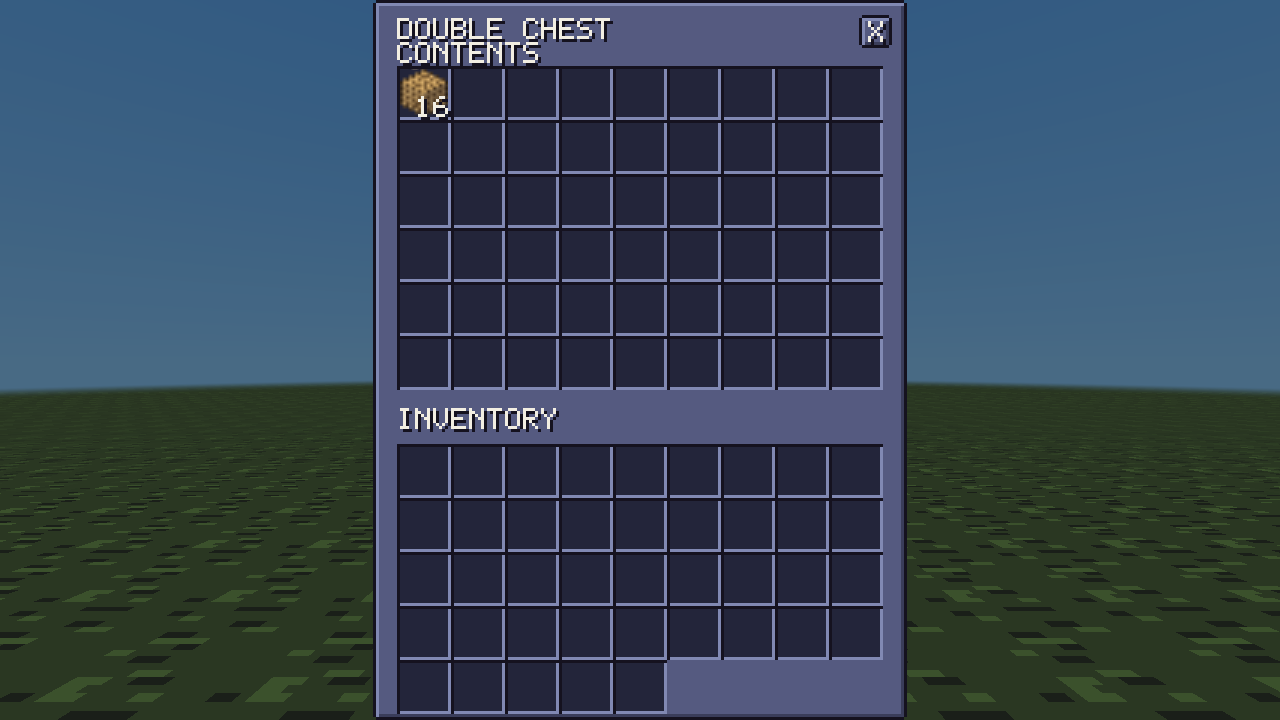
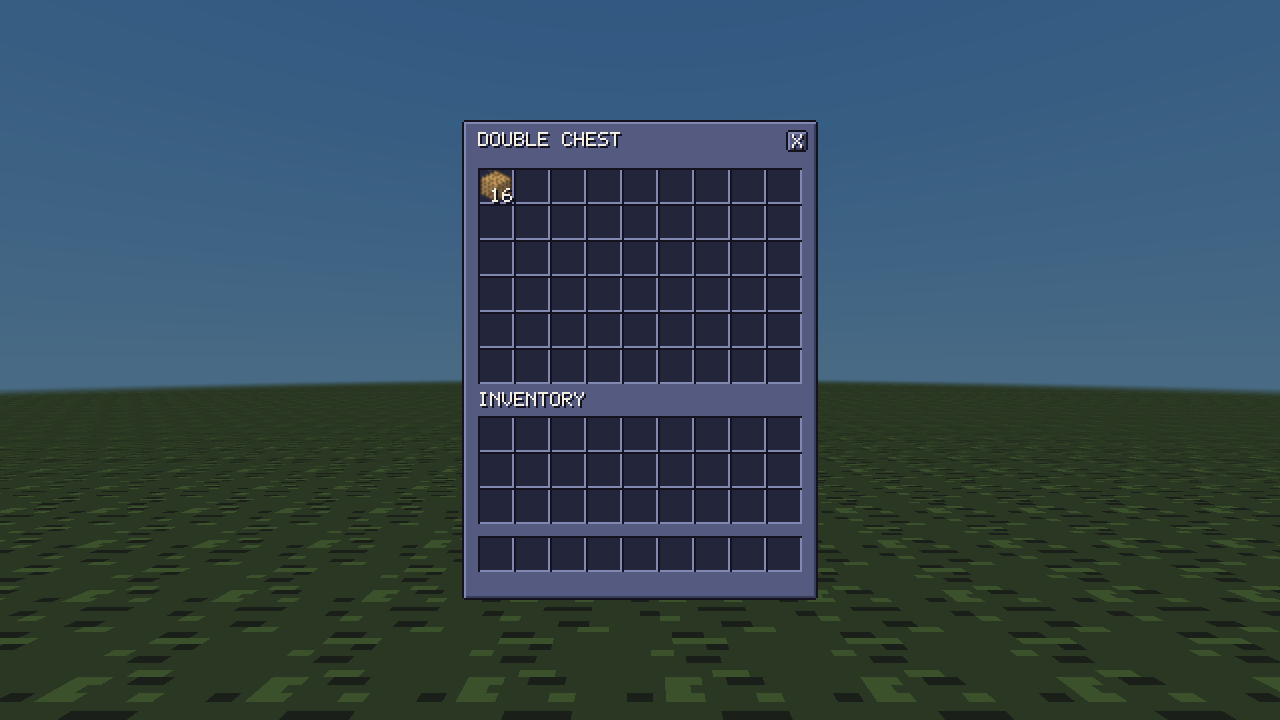
M10b: fix chest and recipe screen review

Changed region(s): [[0.2812, 0.0, 0.7188, 1.0]]

diff --git a/src/ui/ui-manager.ts b/src/ui/ui-manager.ts
@@ -589,23 +589,30 @@ export class UiManager {
     if (this.hoverSlot === null || !this.screen) return null;
     if (this.screen === 'inventory') {
       if (this.hoverSlot < 41) return tooltipFor(this.requirePlayer().inventory, this.hoverSlot);
-      if (this.hoverSlot < INVENTORY_OUTPUT_SLOT)
-        return (
-          this.grid[this.hoverSlot - INVENTORY_CRAFT_BASE]?.id.replace(/_/g, ' ').toUpperCase() ??
-          null
-        );
-      if (this.hoverSlot === INVENTORY_OUTPUT_SLOT)
-        return this.outputStack()?.id.replace(/_/g, ' ').toUpperCase() ?? null;
+      if (this.hoverSlot < INVENTORY_OUTPUT_SLOT) {
+        const stack = this.grid[this.hoverSlot - INVENTORY_CRAFT_BASE];
+        return stack ? displayName(stack.id) : null;
+      }
+      if (this.hoverSlot === INVENTORY_OUTPUT_SLOT) {
+        const output = this.outputStack();
+        return output ? displayName(output.id) : null;
+      }
     } else if (this.screen === 'crafting') {
-      if (this.hoverSlot < CRAFTING_OUTPUT_SLOT)
-        return this.grid[this.hoverSlot]?.id.replace(/_/g, ' ').toUpperCase() ?? null;
-      if (this.hoverSlot === CRAFTING_OUTPUT_SLOT)
-        return this.outputStack()?.id.replace(/_/g, ' ').toUpperCase() ?? null;
+      if (this.hoverSlot < CRAFTING_OUTPUT_SLOT) {
+        const stack = this.grid[this.hoverSlot];
+        return stack ? displayName(stack.id) : null;
+      }
+      if (this.hoverSlot === CRAFTING_OUTPUT_SLOT) {
+        const output = this.outputStack();
+        return output ? displayName(output.id) : null;
+      }
       if (this.hoverSlot < RECIPE_BASE_CRAFTING)
         return tooltipFor(this.requirePlayer().inventory, this.hoverSlot - 10);
     } else {
-      if (this.hoverSlot < this.chestSlotCount)
-        return this.getChestSlot(this.hoverSlot)?.id.replace(/_/g, ' ').toUpperCase() ?? null;
+      if (this.hoverSlot < this.chestSlotCount) {
+        const stack = this.getChestSlot(this.hoverSlot);
+        return stack ? displayName(stack.id) : null;
+      }
       return tooltipFor(this.requirePlayer().inventory, this.hoverSlot - this.chestSlotCount);
     }
     return null;
@@ -812,10 +819,11 @@ export class UiManager {
   private renderChest(player: Player): void {
     const storage = this.chestStorage;
     if (!storage) return;
-    const scale = Math.min(
-      Math.max(1, Math.floor(this.canvas.width / CHEST_PANEL_W)),
-      Math.max(1, Math.floor(this.canvas.height / CHEST_PANEL_H)),
+    const fitScale = Math.min(
+      Math.floor(this.canvas.width / CHEST_PANEL_W),
+      Math.floor(this.canvas.height / CHEST_PANEL_H),
     );
+    const scale = Math.max(1, fitScale - 1);
     const originX = Math.floor((this.canvas.width - CHEST_PANEL_W * scale) / 2);
     const originY = Math.floor((this.canvas.height - CHEST_PANEL_H * scale) / 2);
     const chestSlots = storage.halves.flatMap((half) => half.slots);

diff --git a/src/ui/crafting-screen.ts b/src/ui/crafting-screen.ts
@@ -19,6 +19,7 @@ export const BOOK_PANEL_W = 132;
 export const BOOK_PANEL_H = 186;
 export const CHEST_PANEL_W = 178;
 export const CHEST_PANEL_H = 240;
+const CHEST_CONTENTS_START_Y = 24;
 export const CRAFT_GRID_START = 28;
 export const CRAFT_OUTPUT = { x: 77, y: 48, w: 18, h: 18 };
 export const CRAFT_BOOK_BUTTON = { x: 8, y: 94, w: 38, h: 12 };
@@ -90,18 +91,17 @@ export function bookRowRects(): Rect[] {
 export function chestRects(count: number): Rect[] {
   return Array.from({ length: count }, (_, slot) => ({
     x: 8 + (slot % 9) * 18,
-    y: 22 + Math.floor(slot / 9) * 18,
+    y: CHEST_CONTENTS_START_Y + Math.floor(slot / 9) * 18,
     w: 18,
     h: 18,
   }));
 }
 
 export function chestPlayerRects(): Rect[] {
-  const rects = new Array<Rect>(41);
+  const rects = new Array<Rect>(36);
   for (let i = 0; i < 27; i++)
     rects[9 + i] = { x: 8 + (i % 9) * 18, y: 148 + Math.floor(i / 9) * 18, w: 18, h: 18 };
-  for (let i = 0; i < 9; i++) rects[i] = { x: 8 + i * 18, y: 202, w: 18, h: 18 };
-  for (let i = 0; i < 5; i++) rects[36 + i] = { x: 8 + i * 18, y: 220, w: 18, h: 18 };
+  for (let i = 0; i < 9; i++) rects[i] = { x: 8 + i * 18, y: 208, w: 18, h: 18 };
   return rects;
 }
 
@@ -148,7 +148,7 @@ export function drawCraftPanel(
   });
 
   const output = { ...CRAFT_OUTPUT, x: CRAFT_OUTPUT.x + x, y: CRAFT_OUTPUT.y + y };
-  drawText(ctx, 'RESULT', (x + 74) * s, (y + 36) * s, s, UI.text, UI.outline);
+  drawText(ctx, 'RESULT', (x + 68) * s, (y + 36) * s, s, UI.text, UI.outline);
   drawSlot(ctx, output.x, output.y, s);
   drawStack(ctx, icons, sheet, view.output, output, s);
   if (view.hoverSlots.has(dimension * dimension)) drawSlotHighlight(ctx, output.x, output.y, s);
@@ -250,7 +250,6 @@ export function drawChestScreen(
   ctx.translate(originX, originY);
   drawPanel(ctx, { x: 0, y: 0, w: CHEST_PANEL_W, h: CHEST_PANEL_H }, s);
   drawText(ctx, options.double ? 'DOUBLE CHEST' : 'CHEST', 8 * s, 6 * s, s, UI.text, UI.outline);
-  drawText(ctx, 'CONTENTS', 8 * s, 14 * s, s, UI.text, UI.outline);
   chest.forEach((rect, index) => {
     drawSlot(ctx, rect.x, rect.y, s);
     drawStack(ctx, options.icons, options.sheet, options.chestSlots[index] ?? null, rect, s);

diff --git a/src/ui/pixel-font.ts b/src/ui/pixel-font.ts
@@ -38,6 +38,7 @@ const GLYPHS: Record<string, string> = {
   '9': '01110 10001 10001 01111 00001 00010 01100',
   '-': '00000 00000 00000 11111 00000 00000 00000',
   '.': '00000 00000 00000 00000 00000 01100 01100',
+  '/': '00001 00010 00100 01000 10000 00000 00000',
   ':': '00000 01100 01100 00000 01100 01100 00000',
   "'": '00100 00100 01000 00000 00000 00000 00000',
   ' ': '00000 00000 00000 00000 00000 00000 00000',

diff --git a/progress/M10b.md b/progress/M10b.md
@@ -13,8 +13,8 @@ Full verify (GitHub Actions Verify run #231): typecheck ✓ · lint ✓ · place
 ## Screenshots (`docs/screenshots/M10b/`)
 
 - `m10-workbench.png`: Opened and viewed after the final run. The inventory screen is beside a WORKBENCH panel; three plank stacks fill the top recipe row, two stick stacks complete the wooden-pickaxe recipe, and the pickaxe result is visible.
-- `m10-recipe-book.png`: Opened and viewed after the final run. The recipe book shows the search `WOODEN PICKAXE`, `CRAFTABLE ON`, and one wooden-pickaxe row with its icon beside the filled 3×3 grid and result.
-- `m10-double-chest.png`: Opened and viewed after the final run. The DOUBLE CHEST screen shows six rows of nine storage slots, with 16 planks in the first slot, above the player inventory.
+- `m10-recipe-book.png`: Opened and viewed after the review fix. The `WOODEN PICKAXE` search and `CRAFTABLE ON` filter show one recipe row; the page indicator reads `1/1`. The filled workbench grid, wooden pickaxe result, and `RESULT` label are visible beside the recipe panel.
+- `m10-double-chest.png`: Opened and viewed after the review fix. A centered `DOUBLE CHEST` panel has visible top and bottom margins, six rows of chest slots with 16 oak planks in the first slot, and a player section with 27 main slots plus a separated hotbar row. Armor and offhand slots are absent.
 
 ## What was built
 
